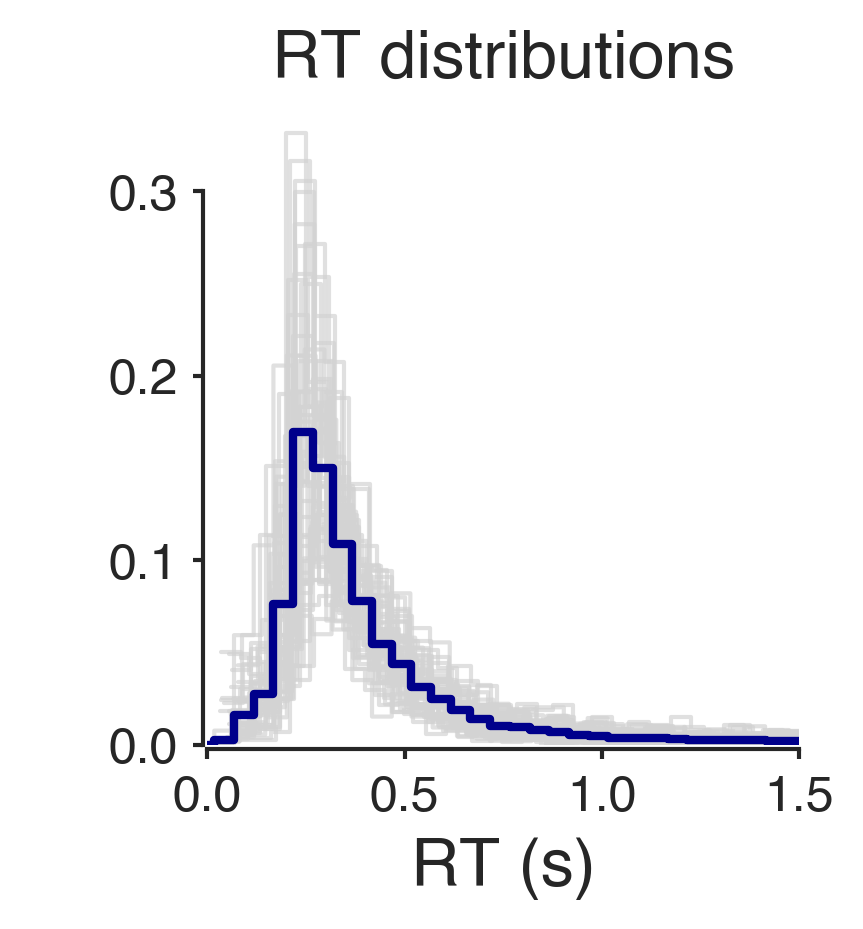
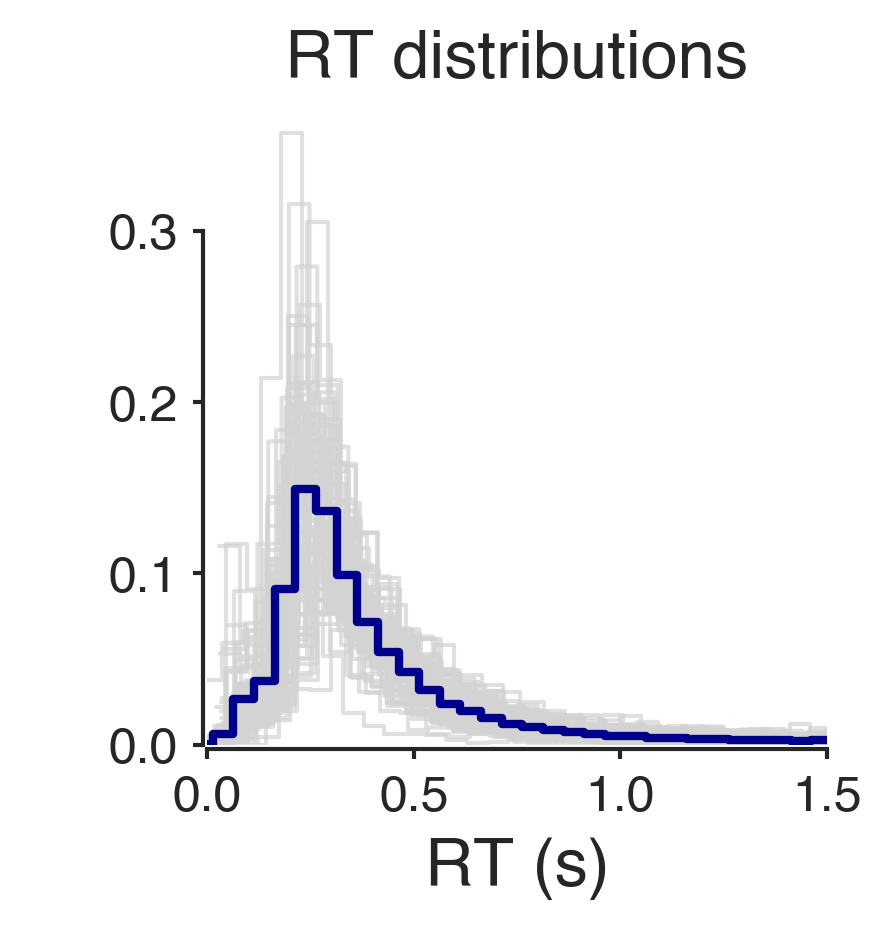
new data file for IBL

diff --git a/src/get_ibl_data.py b/src/get_ibl_data.py
@@ -15,6 +15,7 @@ import os
 import re 
 from tqdm import tqdm
 import utils_choice_history as more_tools
+import seaborn
 
 from one.api import ONE
 ONE.setup(base_url='https://openalyx.internationalbrainlab.org', silent=True)
@@ -76,9 +77,9 @@ for subject in tqdm(subjects):
         except: print ('skippint %s, has seen biased or ephys before getting trained'%subject); continue
         
         # now find the num_sessions before this
-        num_sessions = 1
+        num_sessions = 3
         if num_sessions > 1:
-            dates_before_trained = all_dates[first_trained_loc-3:first_trained_loc]
+            dates_before_trained = all_dates[first_trained_loc-num_sessions:first_trained_loc]
         elif num_sessions == 1:
             # try to get only 1 session instead - ensure a list
             dates_before_trained = [all_dates[first_trained_loc-1]]
@@ -103,10 +104,10 @@ for subject in tqdm(subjects):
         trials['trialnum'] = trials.groupby(['session_start_time']).cumcount()
         trials['response'] = trials['choice'].map({1: 0, 0: np.nan, -1: 1})
         trials['correct']  = trials['feedbackType'].map({-1: 0, 1: 1})
-        # use a very crude measure of RT: trial duration 
-        trials['rt'] = trials['response_times'] - trials['goCue_times']
+        # use a very crude measure of RT: trial duration - see https://docs.google.com/document/d/1s1huCm6eap2cdI6e-3cEnMpH8fP7KvXd16h_350WCU8/edit
+        trials['rt'] = trials['response_times'] - trials['stimOn_times']
         # additionally, save the movement onset
-        trials['movement_onset'] = trials['firstMovement_times'] - trials['goCue_times']
+        trials['movement_onset'] = trials['firstMovement_times'] - trials['stimOn_times']
         trials['prior_bias'] = trials['probabilityLeft']
         # for trainingChoiceWorld, the probabilityLeft is always 0.5
         if whichTask == 'trainingChoiceWorld': trials['prior_bias'] = 0.5
@@ -114,30 +115,34 @@ for subject in tqdm(subjects):
         trials['subj_idx'] = subject
         trials['eid'] = trials.index
 
-        # TODO: Add is_final_movement to trial selection: https://int-brain-lab.github.io/iblenv/notebooks_external/docs_wheel_moves.html#Finding-reaction-time-and-'determined'-movements
+        # TODO: Add is_final_movement to trial selection: 
+        # https://int-brain-lab.github.io/iblenv/notebooks_external/docs_wheel_moves.html#Finding-reaction-time-and-'determined'-movements
 
-        # assert that we have good enough behavior in each session
-        trials['contrast_level'] = trials['abs_contrast'] >= 50
-        perf = trials.groupby(['session_start_time', 'contrast_level'])['correct'].mean().reset_index()
+        # 1. check that we have all contrasts introduced in each session
+        num_contrast = trials['abs_contrast'].unique()
+        try: assert len(num_contrast) >= 5 # there should be 5 or more
+        except: print('skipping %s, not all contrasts introduced'%subject); print(num_contrast); continue
 
-        # 1. check that performance is above 90% for all easy trials
-        try: assert all(perf[(perf['contrast_level'] == True)]['correct'] > 0.90)
-        except: print('skipping %s, performance too low'%subject); continue
-
-        # 2. check that we have all contrasts introduced in each session
-        num_contrast = trials.groupby(['session_start_time'])['abs_contrast'].nunique().reset_index()
-        try: assert all(num_contrast['abs_contrast'] == 5)
-        except: print('skipping %s, not all contrasts introduced'%subject); continue
-
-        # 3. check that we have > 400 trials in each session
+        # 2. check that we have > 400 trials in each session
         num_trials = trials.groupby(['session_start_time'])['trialnum'].count().reset_index()
         try: assert all(num_trials['trialnum'] > 400)
         except: print('skipping %s, not enough trials '%subject); continue
 
-        # 4. check that median RT is below some reasonable value
-        median_rt = trials.groupby(['session_start_time', 'abs_contrast'])['rt'].median().reset_index()
+        # 3. check that performance is above 90% for all easy trials
+        # assert that we have good enough behavior in each session
+        trials['high_contrast_level'] = trials['abs_contrast'] >= 50
+        perf = trials.groupby(['high_contrast_level'])['correct'].mean().reset_index()
+        try: assert all(perf[(perf['high_contrast_level'] == True)]['correct'] > 0.80)
+        except: print('skipping %s, performance too low'%subject); print(perf); continue
+
+        # 4. check that median RT is below some reasonable value in each session
+        median_rt = trials.groupby(['session_start_time'])['rt'].median().reset_index()
         try: assert all(median_rt['rt'] < 1)
         except: print('skipping %s, RT too slow '%subject); continue
+
+        # 5. check that we don't have negative RTs
+        try: assert all(trials.rt > 0)
+        except: print('skipping %s, negative RTs '%subject); continue
 
         # continue only with some columns we need
         trials = trials[['eid', 'subj_idx', 'session_start_time', 'signed_contrast', 'prior_bias',
@@ -155,13 +160,6 @@ print(len(np.unique(data.session_start_time)))
 print('# subjects included:')
 print(len(np.unique(data.subj_idx)))
 
-# %% FOURTH, CLEAN AND PREPROCESS THE DATA
-# remove RTs that sit outside the cutoff window
-# define how we quantify RTs
-# data['rt_raw'] = data['rt'].copy()
-# data['rt'] = more_tools.clean_rts(data['rt'], cutoff=[0.08, 2], 
-#                                   compare_with=None)
-
 # add choice history information
 data = more_tools.compute_choice_history(data)
 
@@ -170,5 +168,16 @@ data.to_csv(os.path.join(data_folder_path, 'ibl_%s.csv'%whichTask),
             index=False)
 print('saved file to:')
 print(os.path.join(data_folder_path, 'ibl_%s.csv'%whichTask))
+
+# %% FOURTH, CLEAN AND PREPROCESS THE DATA
+# remove RTs that sit outside the cutoff window
+data['rt_raw'] = data['rt'].copy()
+data['rt'] = more_tools.clean_rts(data['rt'], cutoff=[0.08, 3], compare_with=None)
+
+# save to clean CSV
+data.to_csv(os.path.join(data_folder_path, 'ibl_%s_clean.csv'%whichTask), 
+            index=False)
+print('saved file to:')
+print(os.path.join(data_folder_path, 'ibl_%s_clean.csv'%whichTask))
 
 # %%

diff --git a/src/plot_figure1a_plot_behavior.py b/src/plot_figure1a_plot_behavior.py
@@ -6,6 +6,7 @@ Anne Urai, Leiden University, 2023
 # %%
 import pandas as pd
 import os
+import numpy as np
 import matplotlib.pyplot as plt
 import seaborn as sns
 import utils_plot as tools
@@ -17,14 +18,15 @@ tools.seaborn_style()
 script_dir = os.path.dirname(os.path.realpath(__file__))
 
 # Construct the path to the data file
-dataset = 'ibl_trainingChoiceWorld'
-dataset = 'visual_motion_2afc_fd'
+dataset = 'ibl_trainingChoiceWorld_clean'
+#dataset = 'visual_motion_2afc_fd'
 
-fig_file_path = os.path.join(script_dir, '..', '..', '2023_choicehistory_HSSM','results', 'figures')
-data_file_path = os.path.join(script_dir, '..', '..', '2023_choicehistory_HSSM', 'data', dataset + '.csv')
+# Construct the path to the data file
+fig_folder_path = os.path.join(script_dir, '..', '..', '2023_choicehistory_HSSM','results', 'figures')
+data_folder_path = os.path.join(script_dir, '..', '..', '2023_choicehistory_HSSM', 'data')
 
 #load data
-data = pd.read_csv(data_file_path)
+data = pd.read_csv(os.path.join(data_folder_path, '%s.csv'%dataset))
 if dataset == 'visual_motion_2afc_fd':
       data['signed_contrast'] = data['stimulus'] * data['coherence']
 
@@ -43,7 +45,7 @@ fig.despine(trim=True)
 fig.set_axis_labels('Signed contrast (%)', 'Rightward choice (%)')
 ax.set_title('a. Psychometric function (n = %d)'%data.subj_idx.nunique())
 
-fig.savefig(os.path.join(fig_file_path, "%s_psychfuncs.png"%dataset), dpi=300)
+fig.savefig(os.path.join(fig_folder_path, "%s_psychfuncs.png"%dataset), dpi=300)
 
 # %% ================================= #
 # CHRONFUNCS on good RTs
@@ -58,7 +60,7 @@ for axidx, ax in enumerate(fig.axes.flat):
 fig.despine(trim=True)
 fig.set_axis_labels('Signed contrast (%)', 'RT (s)')
 ax.set_title('b. Chronometric function (n = %d)'%data.subj_idx.nunique())
-fig.savefig(os.path.join(fig_file_path, "%s_chronfuncs.png"%dataset), dpi=300)
+fig.savefig(os.path.join(fig_folder_path, "%s_chronfuncs.png"%dataset), dpi=300)
 
 # and RT distributions
 fig = sns.FacetGrid(data, hue="subj_idx")
@@ -72,11 +74,13 @@ for axidx, ax in enumerate(fig.axes.flat):
 fig.despine(trim=True, offset=1)
 fig.set_axis_labels('RT (s)', ' ')
 ax.set_title('RT distributions')
-fig.savefig(os.path.join(fig_file_path, "%s_rtdist.png"%dataset), dpi=300)
+fig.savefig(os.path.join(fig_folder_path, "%s_rtdist.png"%dataset), dpi=300)
 
-# DISTRIBUTION OF RESULTING RTS
-data['rt_raw'] = data['rt'].copy()
-rt_cutoff = [0.08, 2]
+# %% ================================= #
+# DISTRIBUTION OF RESULTING RTS after cutoff
+# ================================= #
+
+rt_cutoff = [data['rt'].min(), data['rt'].max()] # read in the values that have already been defined in the get_ibl_data script
 if data['rt_raw'].min() < rt_cutoff[0] and data['rt_raw'].max() > rt_cutoff[1]:
         # make strings for bin labels based on rt_cutoff values
         bin_labels = ['< %.2fs'%(rt_cutoff[0]), 
@@ -105,7 +109,17 @@ percent_below = (data.rt_raw < rt_cutoff[0]).mean() * 100
 percent_above = (data.rt_raw >= rt_cutoff[1]).mean() * 100
 plt.annotate('%d%%'%percent_below, xy=(rt_cutoff[0]/2, 2000), ha='center', fontsize=7)
 plt.annotate('%d%%'%percent_above, xy=(rt_cutoff[1]-0.1, 3000), ha='center', fontsize=7)
-fig.savefig(os.path.join(fig_file_path, "%s_rtdist_cleaned.png"%dataset), dpi=300)
+fig.savefig(os.path.join(fig_folder_path, "%s_rtdist_cleaned.png"%dataset), dpi=300)
+
+# %% ================================= #
+# RT distributions per subject
+# ================================= #
+
+fig = sns.FacetGrid(data, col="subj_idx", col_wrap=np.ceil(np.sqrt(data.subj_idx.nunique())).astype(int),
+                        sharex=True, sharey=False)
+fig.map(sns.histplot, "rt_raw", binwidth=0.05, element='step', color='darkblue')
+fig.map(sns.histplot, "rt", binwidth=0.05, element='step', color='red')
+fig.savefig(os.path.join(fig_folder_path, "%s_rtdist_allsj.png"%dataset), dpi=300)
 
 # %% ================================= #
 # USE THE SAME FILE AS FOR HDDM FITS
@@ -132,7 +146,7 @@ fig.set_axis_labels('Signed evidence (%)', 'Rightwards choice (%)')
 for axidx, ax in enumerate(fig.axes.flat):
         ax.set_title('History bias')
 fig.despine(trim=True)
-fig.savefig(os.path.join(fig_file_path, "%s_psychfuncs_history.png"%dataset), dpi=300)
+fig.savefig(os.path.join(fig_folder_path, "%s_psychfuncs_history.png"%dataset), dpi=300)
 plt.close('all')
 
 #%% also previous history chronometric 
@@ -143,7 +157,7 @@ for axidx, ax in enumerate(fig.axes.flat):
         ax.set_title('History-dependent chronometric')
         # ax.set_ylim([0, 3])
 fig.despine(trim=True)
-fig.savefig(os.path.join(fig_file_path, "%s_chronfuncs_history.png"%dataset), dpi=300)
+fig.savefig(os.path.join(fig_folder_path, "%s_chronfuncs_history.png"%dataset), dpi=300)
 plt.close('all')
 
 # %%

diff --git a/src/utils_choice_history.py b/src/utils_choice_history.py
@@ -2,6 +2,7 @@
 import pandas as pd
 import numpy as np
    
+
 def compute_choice_history(trials):
 
     print('adding choice history columns to database...')
